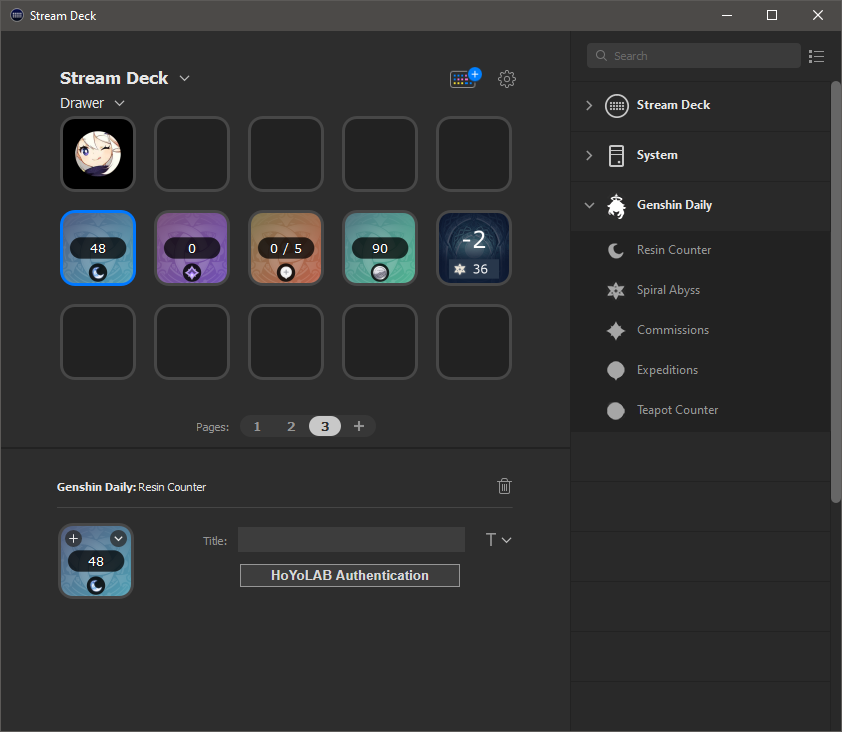
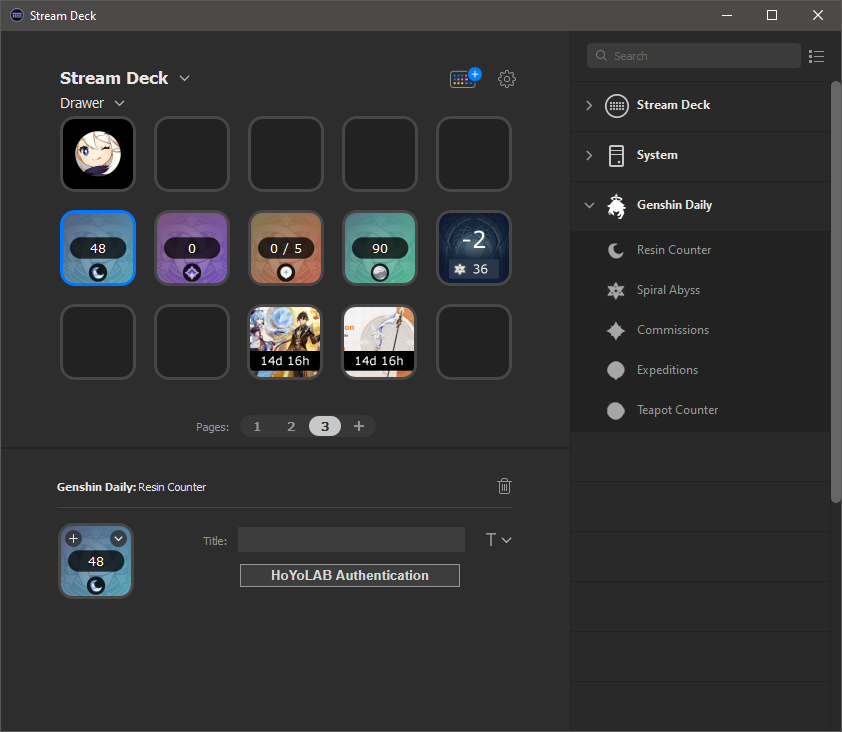
update readme, media

Changed region(s): [[0.2779, 0.4208, 0.4941, 0.541]]

diff --git a/README.md b/README.md
@@ -1,6 +1,6 @@
 # Genshin Impact Daily for Stream Deck
 
-Show the current resin, the spiral abyss countdown (+ stars), teapot coins, commissions, expeditions, etc ...
+Show the current Resin, the Spiral Abyss countdown, the Teapot coins, Daily Commissions, Expeditions, Wish Banner, etc ...
 
 > At this moment this plugin works only with **GENSHIN IMPACT GLOBAL**
 
@@ -19,7 +19,7 @@ or from below:
 
 This tool uses the HoYoLAB cookies to obtain the info about your game instance.
 
-- Remember to set this option in your hoyolab account > battle chronicles
+- Remember to set this option in your HoYoLAB account > Battle Chronicles
 
 ![note](https://github.com/fcannizzaro/genshin-daily-stream-deck/blob/main/media/note.png?raw=true)
 
